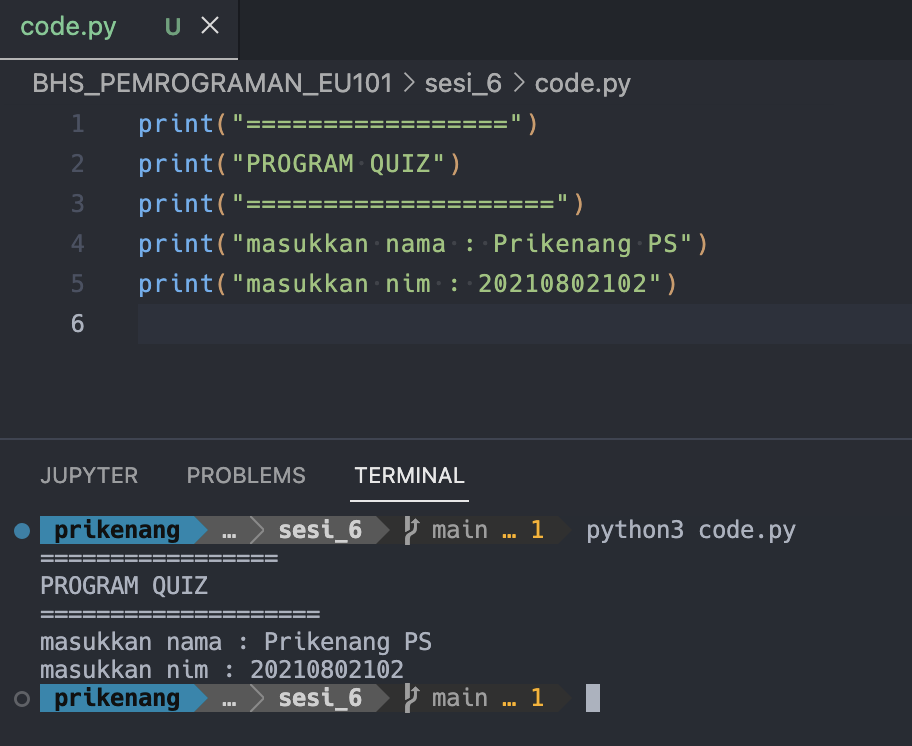
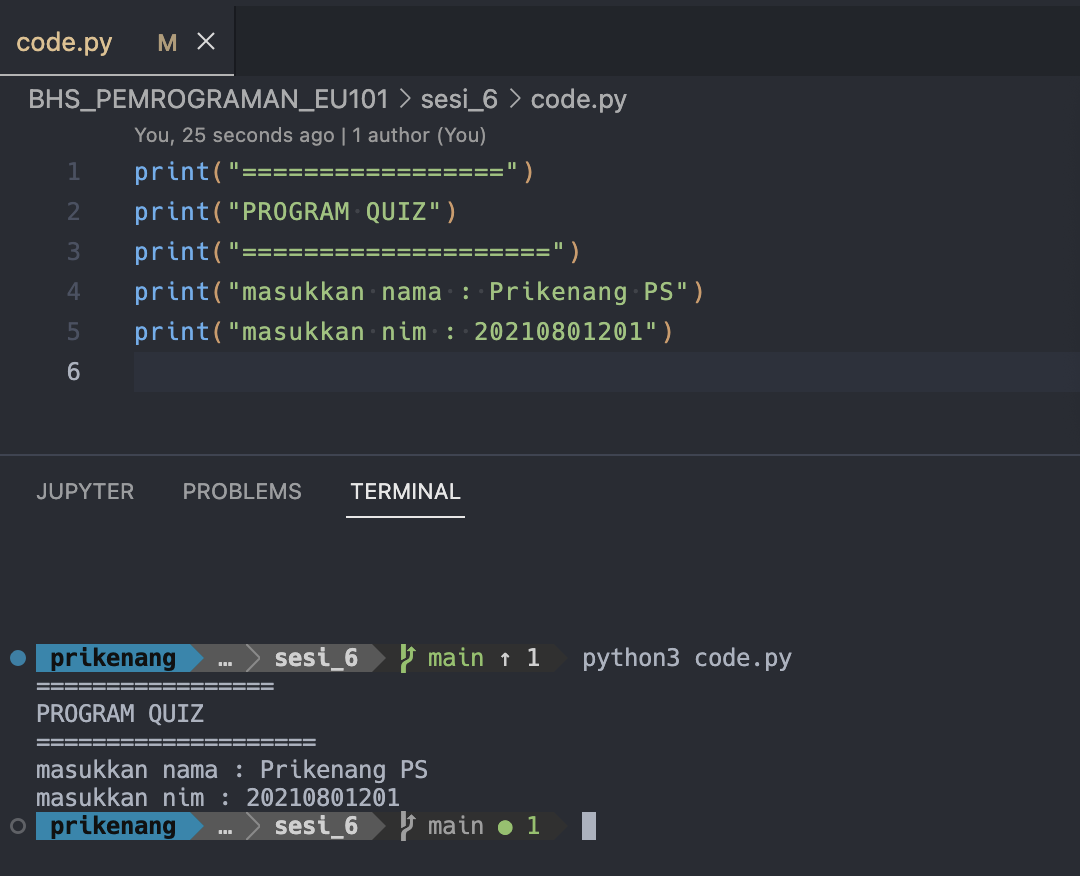
BP: update tugas sesi 6

diff --git a/BHS_PEMROGRAMAN_EU101/sesi_6/code.py b/BHS_PEMROGRAMAN_EU101/sesi_6/code.py
@@ -2,4 +2,4 @@ print("=================")
 print("PROGRAM QUIZ")
 print("====================")
 print("masukkan nama : Prikenang PS")
-print("masukkan nim : 20210802102")
+print("masukkan nim : 20210801201")
